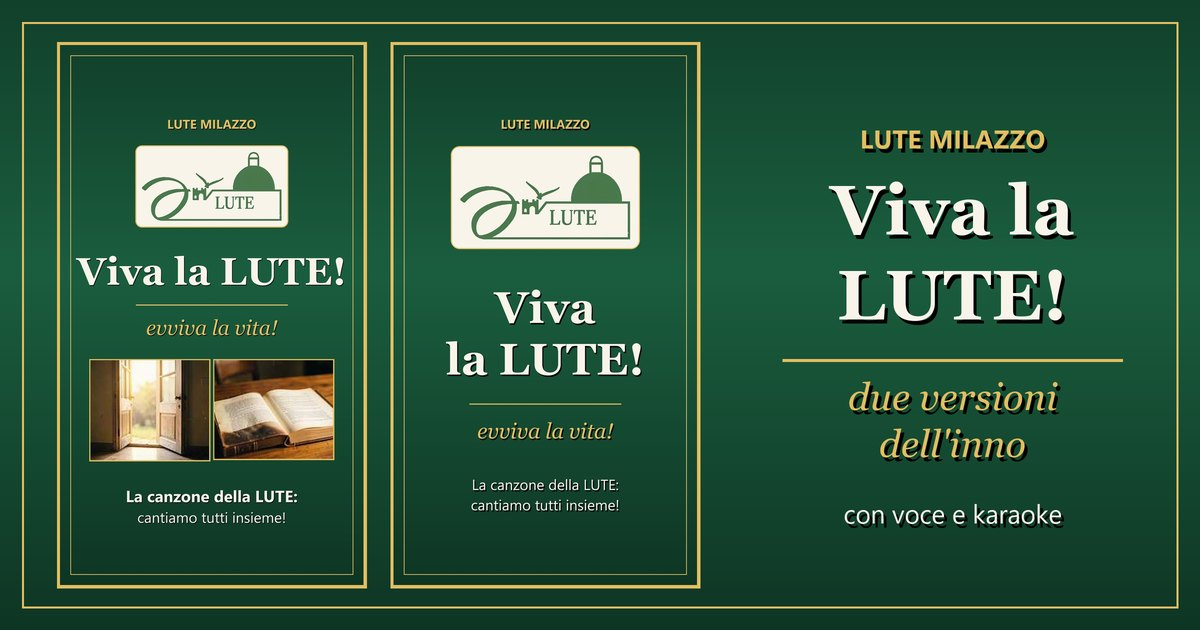
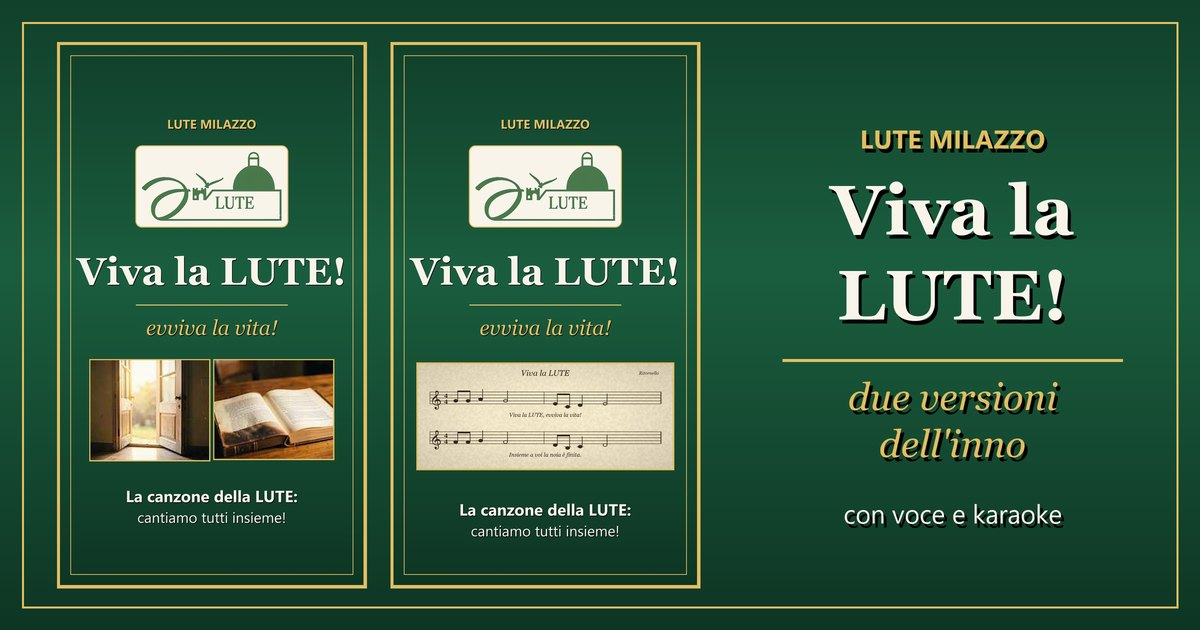
Scheda di Nuccio con lo spartito

Changed region(s): [[0.3392, 0.2111, 0.5858, 0.8746]]

diff --git a/index.html b/index.html
@@ -115,7 +115,7 @@
     </article>
 
     <article class="scheda">
-      <img src="nuccio-vetrina.jpg" alt="Immagine della versione di Nuccio: libro aperto">
+      <img src="nuccio-vetrina.jpg" alt="Immagine della versione di Nuccio: spartito del ritornello">
       <div class="corpo">
         <div class="autore">Versione di Nuccio</div>
         <h2>Inno corale solenne</h2>
